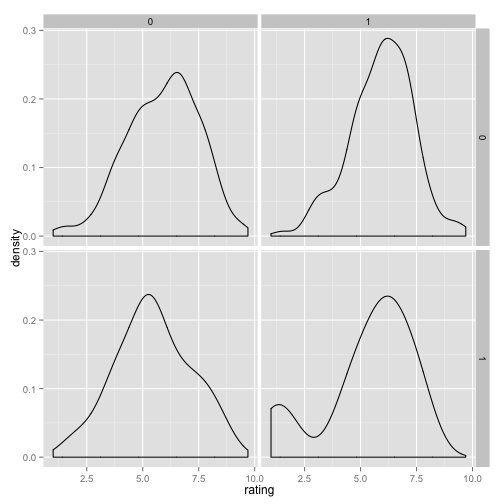
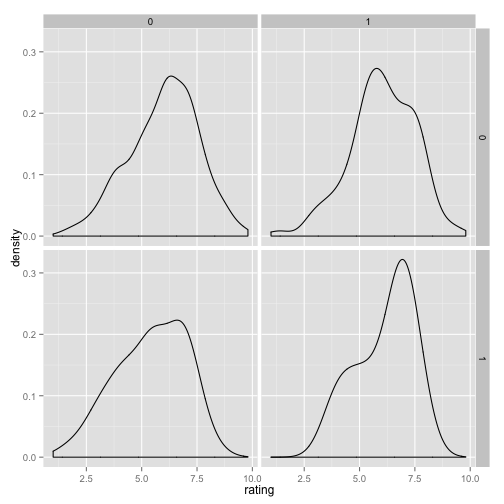
???

diff --git a/_site/2015/09/01/gglpot-commands.html b/_site/2015/09/01/gglpot-commands.html
@@ -15,30 +15,30 @@ str(movies)
 
 <p><code>
 ## 'data.frame':	1000 obs. of  24 variables:
-##  $ title      : chr  "Airman's Letter to His Mother, An" "Sexual Intent" "Captain Kidd and the Slave Girl" "Hansel e Gretel" ...
-##  $ year       : int  1941 1994 1954 1990 1970 1981 1976 1954 2000 1998 ...
-##  $ length     : int  5 88 82 87 95 91 93 7 25 101 ...
+##  $ title      : chr  "Thetford au milieu de notre vie" "Rocky V" "Escalier C" "Charlie Butterfly" ...
+##  $ year       : int  1980 1990 1985 2002 1987 1999 1986 1998 1935 2003 ...
+##  $ length     : int  84 104 102 100 90 98 101 3 30 97 ...
 ##  $ budget     : int  NA NA NA NA NA NA NA NA NA NA ...
-##  $ rating     : num  8.3 3.7 5.5 4.3 2.8 6.4 5.2 6.9 8.9 4.9 ...
-##  $ votes      : int  18 18 5 13 22 8 248 31 11 44 ...
-##  $ r1         : num  0 24.5 0 34.5 24.5 0 4.5 0 0 4.5 ...
-##  $ r2         : num  0 4.5 0 0 4.5 0 4.5 0 4.5 4.5 ...
-##  $ r3         : num  0 24.5 24.5 4.5 4.5 0 4.5 0 0 4.5 ...
-##  $ r4         : num  0 14.5 0 4.5 4.5 0 4.5 0 0 4.5 ...
-##  $ r5         : num  4.5 14.5 24.5 4.5 4.5 14.5 14.5 14.5 0 14.5 ...
-##  $ r6         : num  14.5 4.5 24.5 14.5 4.5 24.5 14.5 14.5 0 4.5 ...
-##  $ r7         : num  24.5 4.5 0 0 14.5 0 14.5 24.5 0 4.5 ...
-##  $ r8         : num  24.5 0 44.5 0 4.5 14.5 14.5 24.5 4.5 4.5 ...
-##  $ r9         : num  24.5 0 0 4.5 4.5 14.5 4.5 4.5 14.5 14.5 ...
-##  $ r10        : num  14.5 4.5 0 14.5 14.5 34.5 4.5 14.5 64.5 14.5 ...
-##  $ mpaa       : Factor w/ 5 levels "","NC-17","PG",..: 1 1 1 1 1 1 1 1 1 5 ...
-##  $ Action     : int  0 1 1 0 0 0 0 0 0 0 ...
-##  $ Animation  : int  0 0 0 0 0 0 0 1 0 0 ...
-##  $ Comedy     : int  0 0 0 0 0 0 0 1 0 0 ...
-##  $ Drama      : int  0 1 0 0 1 0 0 0 1 1 ...
+##  $ rating     : num  3.9 4 6.4 4.1 5.3 7.3 3.4 3.7 7.2 6.1 ...
+##  $ votes      : int  30 7465 58 11 683 73 15 12 114 234 ...
+##  $ r1         : num  0 14.5 0 34.5 4.5 4.5 4.5 4.5 0 4.5 ...
+##  $ r2         : num  0 14.5 0 0 4.5 0 4.5 34.5 0 4.5 ...
+##  $ r3         : num  45.5 14.5 4.5 0 4.5 4.5 24.5 24.5 0 4.5 ...
+##  $ r4         : num  0 14.5 4.5 24.5 14.5 4.5 4.5 14.5 4.5 4.5 ...
+##  $ r5         : num  44.5 14.5 4.5 0 14.5 14.5 14.5 4.5 4.5 4.5 ...
+##  $ r6         : num  0 14.5 14.5 4.5 14.5 4.5 24.5 4.5 14.5 14.5 ...
+##  $ r7         : num  0 4.5 24.5 4.5 14.5 14.5 0 0 34.5 4.5 ...
+##  $ r8         : num  0 4.5 24.5 4.5 14.5 34.5 0 0 24.5 14.5 ...
+##  $ r9         : num  0 4.5 14.5 0 4.5 14.5 4.5 0 4.5 14.5 ...
+##  $ r10        : num  4.5 4.5 4.5 4.5 4.5 14.5 4.5 0 4.5 14.5 ...
+##  $ mpaa       : Factor w/ 5 levels "","NC-17","PG",..: 1 1 1 1 1 1 1 1 1 1 ...
+##  $ Action     : int  0 1 0 0 0 0 0 0 0 0 ...
+##  $ Animation  : int  0 0 0 0 0 0 0 0 0 0 ...
+##  $ Comedy     : int  0 0 0 0 1 0 0 0 1 0 ...
+##  $ Drama      : int  0 1 1 0 1 1 0 0 0 1 ...
 ##  $ Documentary: int  0 0 0 0 0 0 0 0 0 0 ...
-##  $ Romance    : int  0 0 0 0 0 0 0 0 0 1 ...
-##  $ Short      : int  1 0 0 0 0 0 0 1 1 0 ...
+##  $ Romance    : int  0 0 0 0 0 0 0 0 0 0 ...
+##  $ Short      : int  0 0 0 0 0 0 0 1 1 0 ...
 </code></p>
 
 <p><code>r

diff --git a/_posts/2015-09-01-gglpot-commands.md b/_posts/2015-09-01-gglpot-commands.md
@@ -16,30 +16,30 @@ str(movies)
 
 ```
 ## 'data.frame':	1000 obs. of  24 variables:
-##  $ title      : chr  "Airman's Letter to His Mother, An" "Sexual Intent" "Captain Kidd and the Slave Girl" "Hansel e Gretel" ...
-##  $ year       : int  1941 1994 1954 1990 1970 1981 1976 1954 2000 1998 ...
-##  $ length     : int  5 88 82 87 95 91 93 7 25 101 ...
+##  $ title      : chr  "Thetford au milieu de notre vie" "Rocky V" "Escalier C" "Charlie Butterfly" ...
+##  $ year       : int  1980 1990 1985 2002 1987 1999 1986 1998 1935 2003 ...
+##  $ length     : int  84 104 102 100 90 98 101 3 30 97 ...
 ##  $ budget     : int  NA NA NA NA NA NA NA NA NA NA ...
-##  $ rating     : num  8.3 3.7 5.5 4.3 2.8 6.4 5.2 6.9 8.9 4.9 ...
-##  $ votes      : int  18 18 5 13 22 8 248 31 11 44 ...
-##  $ r1         : num  0 24.5 0 34.5 24.5 0 4.5 0 0 4.5 ...
-##  $ r2         : num  0 4.5 0 0 4.5 0 4.5 0 4.5 4.5 ...
-##  $ r3         : num  0 24.5 24.5 4.5 4.5 0 4.5 0 0 4.5 ...
-##  $ r4         : num  0 14.5 0 4.5 4.5 0 4.5 0 0 4.5 ...
-##  $ r5         : num  4.5 14.5 24.5 4.5 4.5 14.5 14.5 14.5 0 14.5 ...
-##  $ r6         : num  14.5 4.5 24.5 14.5 4.5 24.5 14.5 14.5 0 4.5 ...
-##  $ r7         : num  24.5 4.5 0 0 14.5 0 14.5 24.5 0 4.5 ...
-##  $ r8         : num  24.5 0 44.5 0 4.5 14.5 14.5 24.5 4.5 4.5 ...
-##  $ r9         : num  24.5 0 0 4.5 4.5 14.5 4.5 4.5 14.5 14.5 ...
-##  $ r10        : num  14.5 4.5 0 14.5 14.5 34.5 4.5 14.5 64.5 14.5 ...
-##  $ mpaa       : Factor w/ 5 levels "","NC-17","PG",..: 1 1 1 1 1 1 1 1 1 5 ...
-##  $ Action     : int  0 1 1 0 0 0 0 0 0 0 ...
-##  $ Animation  : int  0 0 0 0 0 0 0 1 0 0 ...
-##  $ Comedy     : int  0 0 0 0 0 0 0 1 0 0 ...
-##  $ Drama      : int  0 1 0 0 1 0 0 0 1 1 ...
+##  $ rating     : num  3.9 4 6.4 4.1 5.3 7.3 3.4 3.7 7.2 6.1 ...
+##  $ votes      : int  30 7465 58 11 683 73 15 12 114 234 ...
+##  $ r1         : num  0 14.5 0 34.5 4.5 4.5 4.5 4.5 0 4.5 ...
+##  $ r2         : num  0 14.5 0 0 4.5 0 4.5 34.5 0 4.5 ...
+##  $ r3         : num  45.5 14.5 4.5 0 4.5 4.5 24.5 24.5 0 4.5 ...
+##  $ r4         : num  0 14.5 4.5 24.5 14.5 4.5 4.5 14.5 4.5 4.5 ...
+##  $ r5         : num  44.5 14.5 4.5 0 14.5 14.5 14.5 4.5 4.5 4.5 ...
+##  $ r6         : num  0 14.5 14.5 4.5 14.5 4.5 24.5 4.5 14.5 14.5 ...
+##  $ r7         : num  0 4.5 24.5 4.5 14.5 14.5 0 0 34.5 4.5 ...
+##  $ r8         : num  0 4.5 24.5 4.5 14.5 34.5 0 0 24.5 14.5 ...
+##  $ r9         : num  0 4.5 14.5 0 4.5 14.5 4.5 0 4.5 14.5 ...
+##  $ r10        : num  4.5 4.5 4.5 4.5 4.5 14.5 4.5 0 4.5 14.5 ...
+##  $ mpaa       : Factor w/ 5 levels "","NC-17","PG",..: 1 1 1 1 1 1 1 1 1 1 ...
+##  $ Action     : int  0 1 0 0 0 0 0 0 0 0 ...
+##  $ Animation  : int  0 0 0 0 0 0 0 0 0 0 ...
+##  $ Comedy     : int  0 0 0 0 1 0 0 0 1 0 ...
+##  $ Drama      : int  0 1 1 0 1 1 0 0 0 1 ...
 ##  $ Documentary: int  0 0 0 0 0 0 0 0 0 0 ...
-##  $ Romance    : int  0 0 0 0 0 0 0 0 0 1 ...
-##  $ Short      : int  1 0 0 0 0 0 0 1 1 0 ...
+##  $ Romance    : int  0 0 0 0 0 0 0 0 0 0 ...
+##  $ Short      : int  0 0 0 0 0 0 0 1 1 0 ...
 ```
 
 ```r

diff --git a/_posts/2015-11-01-updating-R-packages.md b/_posts/2015-11-01-updating-R-packages.md
@@ -2,7 +2,6 @@
 title: "Updating R without needing to re-install packages"
 author: "John Tipton"
 date: "October 15, 2015"
-output: html_document
 ---
 
 One annoyance when using R is the need to re-install packages with each new installation of R. This is a method to avoid this (at least on unix-like systems), but make sure you use the R command

diff --git a/_posts/2014-1-1-snowfall.md b/_posts/2014-1-1-snowfall.md
@@ -2,14 +2,6 @@
 title: "moving from for to snowfall"
 author: "Henry Scharf, edited to snowfall by John Tipton"
 date: "May 6, 2014"
-output:
-  html_document:    
-    css: style_rainbow_brewer_11.css
-    highlight: tango
-    keep_md: yes
-    number_sections: yes
-    theme: readable
-    toc: yes
 ---
 
 

diff --git a/_posts/2015-10-15-parallel-random-forest.md b/_posts/2015-10-15-parallel-random-forest.md
@@ -2,7 +2,6 @@
 title: "parallelRandomForest"
 author: "John Tipton"
 date: "May 17, 2015"
-output: html_document
 ---
 
 # some example code to parallelize the building of random forests

diff --git a/_posts/2016-01-01-Test.md b/_posts/2016-01-01-Test.md
@@ -2,7 +2,6 @@
 title: "Test Post"
 author: "John Tipton"
 date: "January 7, 2016"
-output: html_document
 ---
 
 
